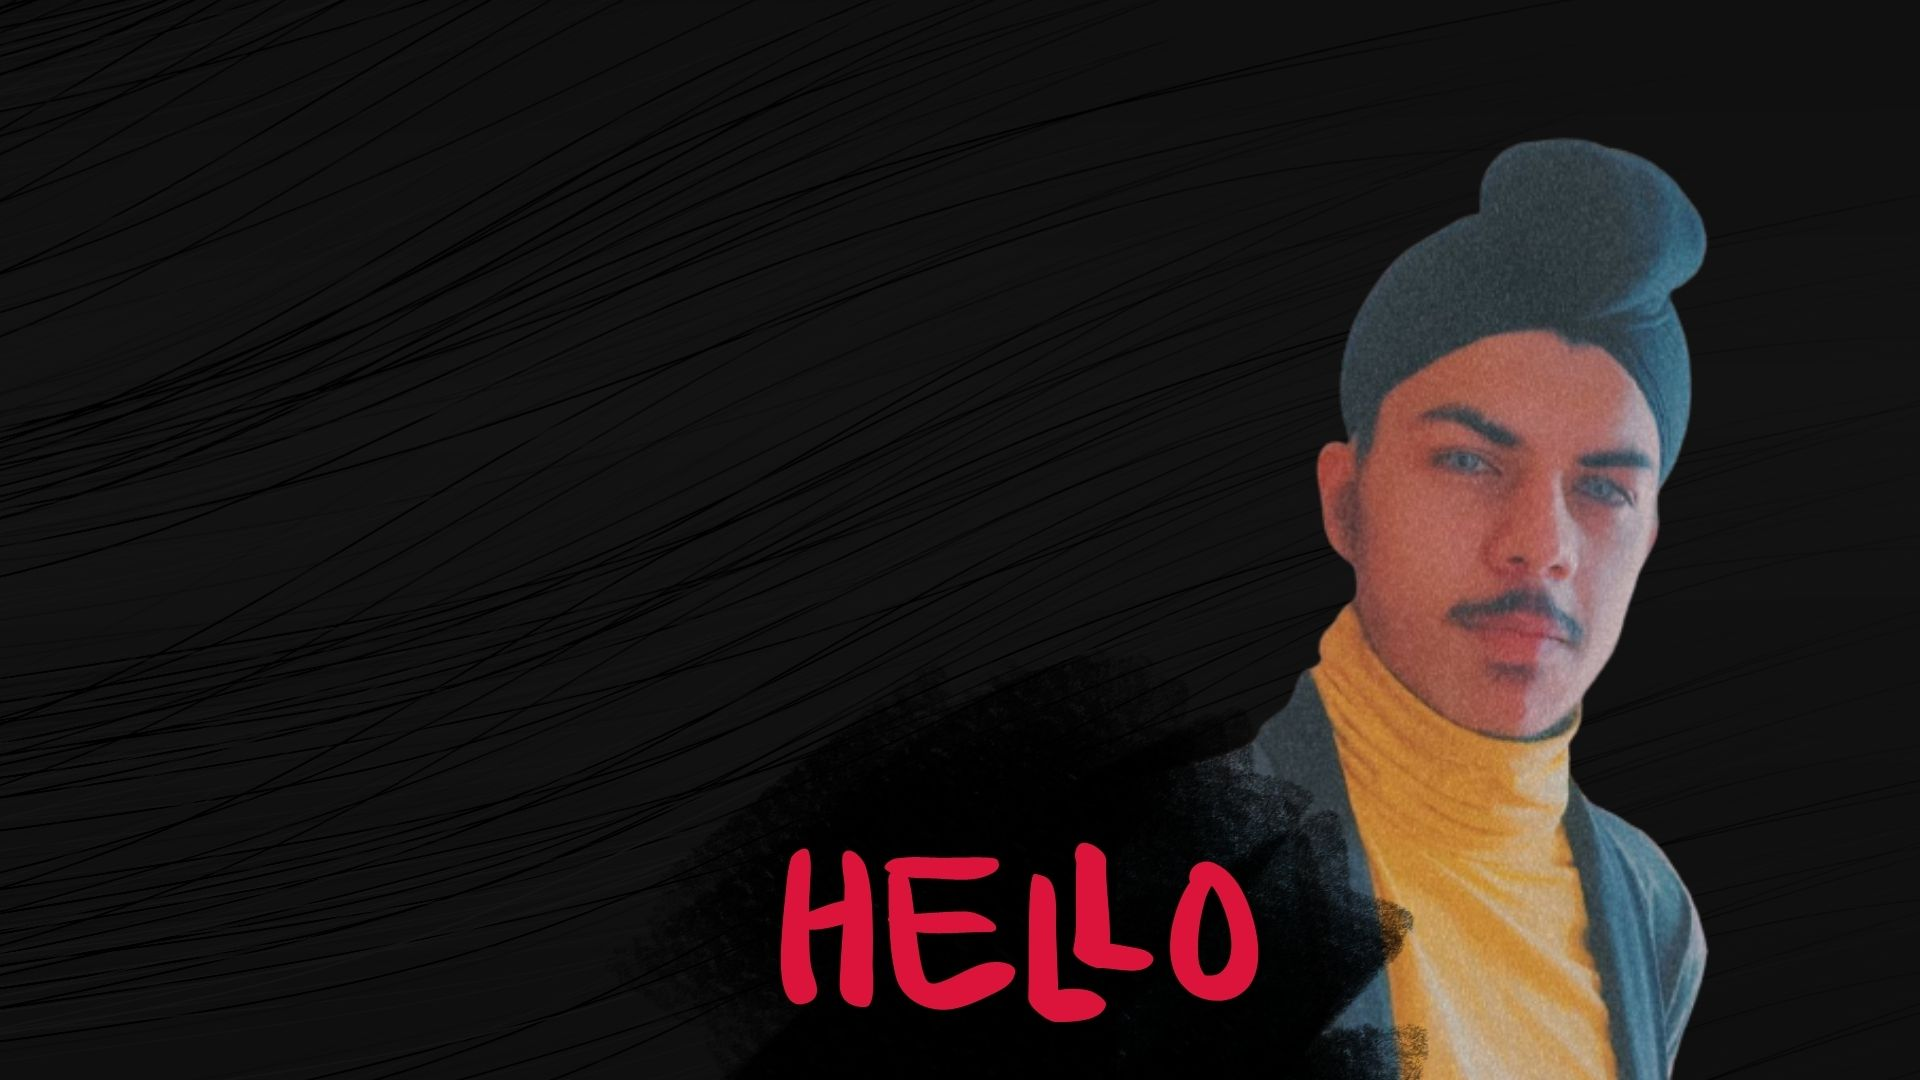
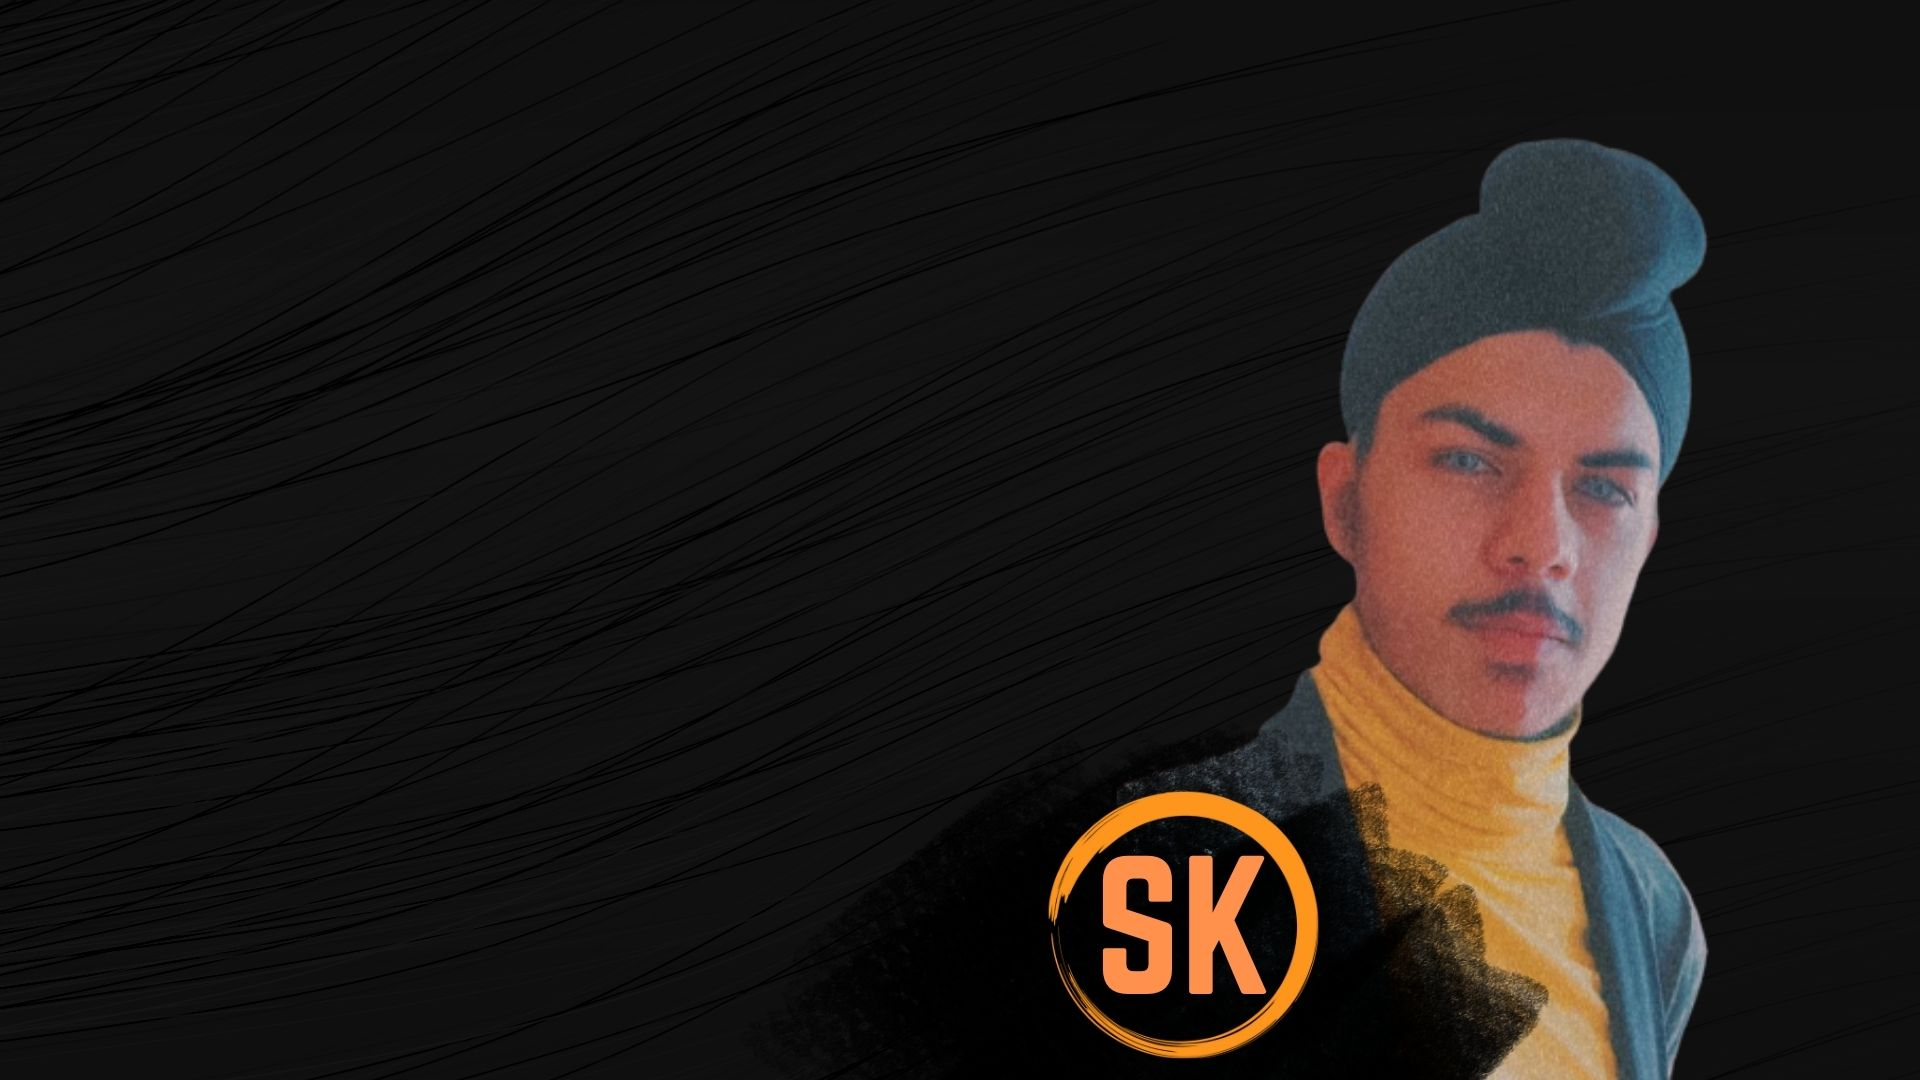
Add files via upload

Changed region(s): [[0.4062, 0.7028, 0.8125, 1.0]]

diff --git a/style.css b/style.css
@@ -71,7 +71,7 @@ section .title::after{
     bottom: -8px;
     left: 50%;
     font-size: 20px;
-    color: crimson;
+    color: #dc7514;
     padding: 0 5px;
     background: #fff;
     transform: translateX(-50%);
@@ -88,7 +88,7 @@ section .title::after{
 }
 .navbar.sticky{
     padding: 15px 0;
-    background: crimson;
+    background: #dc7514;
 }
 .navbar .max-width{
     display: flex;
@@ -101,7 +101,7 @@ section .title::after{
     font-weight: 600;
 }
 .navbar .logo a span{
-    color: crimson;
+    color: #dc7514;
     transition: all 0.3s ease;
 }
 .navbar.sticky .logo a span{
@@ -120,7 +120,7 @@ section .title::after{
     transition: color 0.3s ease;
 }
 .navbar .menu li a:hover{
-    color: crimson;
+    color: #dc7514;
 }
 .navbar.sticky .menu li a:hover{
     color: #fff;
@@ -137,7 +137,7 @@ section .title::after{
     position: fixed;
     height: 45px;
     width: 42px;
-    background: crimson;
+    background: #dc7514;
     right: 30px;
     bottom: 10px;
     text-align: center;
@@ -193,23 +193,23 @@ section .title::after{
     margin: 5px 0;
 }
 .home .home-content .text-3 span{
-    color: #dc143c;
+    color: #dc7514;
     font-weight: 500;
 }
 .home .home-content a{
     display: inline-block;
-    background: crimson;
+    background: #dc7514;
     color: #fff;
     font-size: 25px;
     padding: 12px 36px;
     margin-top: 20px;
     font-weight: 400;
     border-radius: 6px;
-    border: 2px solid crimson;
+    border: 2px solid #dc7514;
     transition: all 0.3s ease;
 }
 .home .home-content a:hover{
-    color: crimson;
+    color: #dc7514;
     background: none;
 }
 
@@ -235,25 +235,25 @@ section .title::after{
     margin-bottom: 10px;
 }
 .about .about-content .right .text span{
-    color: crimson;
+    color: #dc7514;
 }
 .about .about-content .right p{
     text-align: justify;
 }
 .about .about-content .right a{
     display: inline-block;
-    background: crimson;
+    background: #dc7514;
     color: #fff;
     font-size: 20px;
     font-weight: 500;
     padding: 10px 30px;
     margin-top: 20px;
     border-radius: 6px;
-    border: 2px solid crimson;
+    border: 2px solid #dc7514;
     transition: all 0.3s ease;
 }
 .about .about-content .right a:hover{
-    color: crimson;
+    color: #dc7514;
     background: none;
 }
 
@@ -288,7 +288,7 @@ a, a:hover, a:focus, a:active {
     
 }
 .services .serv-content .card:hover{
-    background: crimson;
+    background: #dc7514;
 }
 .services .serv-content .card .box{
     transition: all 0.3s ease;
@@ -298,7 +298,7 @@ a, a:hover, a:focus, a:active {
 }
 .services .serv-content .card i{
     font-size: 50px;
-    color: crimson;
+    color: #dc7514;
     transition: color 0.3s ease;
 }
 .services .serv-content .card:hover i{
@@ -328,18 +328,18 @@ a, a:hover, a:focus, a:active {
 }
 .skills .skills-content .left a{
     display: inline-block;
-    background: crimson;
+    background: #dc7514;
     color: #fff;
     font-size: 18px;
     font-weight: 500;
     padding: 8px 16px;
     margin-top: 20px;
     border-radius: 6px;
-    border: 2px solid crimson;
+    border: 2px solid #dc7514;
     transition: all 0.3s ease;
 }
 .skills .skills-content .left a:hover{
-    color: crimson;
+    color: #dc7514;
     background: none;
 }
 .skills .skills-content .right .bars{
@@ -367,7 +367,7 @@ a, a:hover, a:focus, a:active {
     height: 100%;
     left: 0;
     top: 0;
-    background: crimson;
+    background: #dc7514;
 }
 .skills-content .right .html::before{
     width: 90%;
@@ -398,7 +398,7 @@ a, a:hover, a:focus, a:active {
     transition: all 0.3s ease;
 }
 .teams .carousel .card:hover{
-    background: crimson;
+    background: #dc7514;
 }
 .teams .carousel .card .box{
     display: flex;
@@ -420,7 +420,7 @@ a, a:hover, a:focus, a:active {
     width: 150px;
     object-fit: cover;
     border-radius: 50%;
-    border: 5px solid crimson;
+    border: 5px solid #dc7514;
     transition: all 0.3s ease;
 }
 .teams .carousel .card:hover img{
@@ -436,7 +436,7 @@ a, a:hover, a:focus, a:active {
     margin: 0 5px;
     outline: none!important;
     border-radius: 50%;
-    border: 2px solid crimson!important;
+    border: 2px solid #dc7514!important;
     transition: all 0.3s ease;
 }
 .owl-dot.active{
@@ -445,7 +445,7 @@ a, a:hover, a:focus, a:active {
 }
 .owl-dot.active,
 .owl-dot:hover{
-    background: crimson!important;
+    background: #dc7514!important;
 }
 
 /* contact section styling */
@@ -476,7 +476,7 @@ a, a:hover, a:focus, a:active {
 }
 .contact .contact-content .row i{
     font-size: 25px;
-    color: crimson;
+    color: #dc7514;
 }
 .contact .contact-content .info .head{
     font-weight: 500;
@@ -535,12 +535,12 @@ a, a:hover, a:focus, a:active {
   border-radius: 6px;
   cursor: pointer;
   flex-wrap: nowrap;
-  background: crimson;
-  border: 2px solid crimson;
+  background: #dc7514;
+  border: 2px solid #dc7514;
   transition: all 0.3s ease;
 }
 .right form .button-area button:hover{
-  color: crimson;
+  color: #dc7514;
   background: none;
 }
 /* footer section styling */
@@ -551,7 +551,7 @@ footer{
     text-align: center;
 }
 footer span a{
-    color: crimson;
+    color: #dc7514;
     text-decoration: none;
 }
 footer span a:hover{
@@ -695,7 +695,7 @@ footer span a:hover{
     visibility: visible;
     mix-blend-mode: difference;
     background-color: #0a0a0a;
-    border: 3px solid crimson;
+    border: 3px solid #dc7514;
     opacity: 0.6;
     height: 30px;
     width: 30px;
